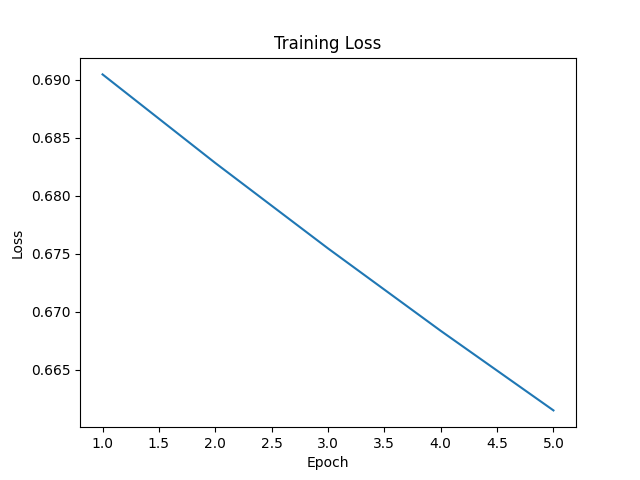
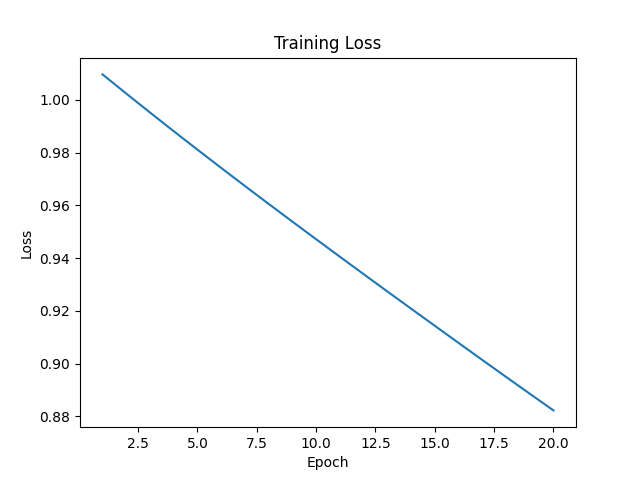
improved churn model evaluation and add class weighted training

diff --git a/src/train_model.py b/src/train_model.py
@@ -25,6 +25,17 @@ X_test_tensor = torch.tensor(X_test.values, dtype=torch.float32) # torch.Size([1
 Y_train_tensor = torch.tensor(Y_train.values, dtype=torch.float32) # torch.Size([5634, 1])
 Y_test_tensor = torch.tensor(Y_test.values, dtype=torch.float32) # torch.Size([1409, 1])
 
+
+# Penalizing innaccurate labeling of churners count more heavily than mistakes on non-churners
+num_neg = (Y_train_tensor == 0).float().sum()
+num_pos = (Y_train_tensor == 1).float().sum()
+
+pos_weight = num_neg / num_pos
+
+print(f"pos_weight: {pos_weight.item():.4f}")
+
+pos_weight
+
 # Building a neural net
 
 model = nn.Sequential(
@@ -33,7 +44,7 @@ model = nn.Sequential(
     nn.Linear(64,1) # Output layer 64 -> 1
 )
 
-criterion = nn.BCEWithLogitsLoss() #Binary classification loss function
+criterion = nn.BCEWithLogitsLoss(pos_weight=pos_weight) #Binary classification loss function
 
 # Adam = the optimization algorithm
 # model.parameters() = tells PyTorch which weights/biases to update
@@ -43,7 +54,7 @@ optimizer = torch.optim.Adam(model.parameters(), lr=0.001)
 train_losses = []
 # Training Loop:
 
-epochs = 5
+epochs = 20
 
 for epoch in range(epochs):
     model.train()
@@ -75,8 +86,17 @@ for epoch in range(epochs):
     print(f"Train Loss: {loss.item():.4f}")
     print(f"Test Loss: {test_loss.item():.4f}")
     print(f"Accuracy: {accuracy.item():.4f}")
-    print(f"Predicted positive rate: {test_preds.mean().item():.4f}")
-    print(f"Actual positive rate: {Y_test_tensor.mean().item():.4f}")
+    tp = ((test_preds == 1) & (Y_test_tensor == 1)).float().sum()
+    tn = ((test_preds == 0) & (Y_test_tensor == 0)).float().sum()
+    fp = ((test_preds == 1) & (Y_test_tensor == 0)).float().sum()
+    fn = ((test_preds == 0) & (Y_test_tensor == 1)).float().sum()
+    predicted_positive_rate = test_preds.mean()
+    actual_positive_rate = Y_test_tensor.mean()
+    recall = tp / (tp + fn + 1e-8)
+    print(f"Predicted positive rate: {predicted_positive_rate.item():.4f}")
+    print(f"Actual positive rate: {actual_positive_rate.item():.4f}")
+    print(f"Recall for churners: {recall.item():.4f}")
+    print(f"TP: {tp.item():.0f}, FP: {fp.item():.0f}, TN: {tn.item():.0f}, FN: {fn.item():.0f}")
 
 torch.save(model.state_dict(), MODEL_PATH)
 print(f"Model saved to: {MODEL_PATH}")
